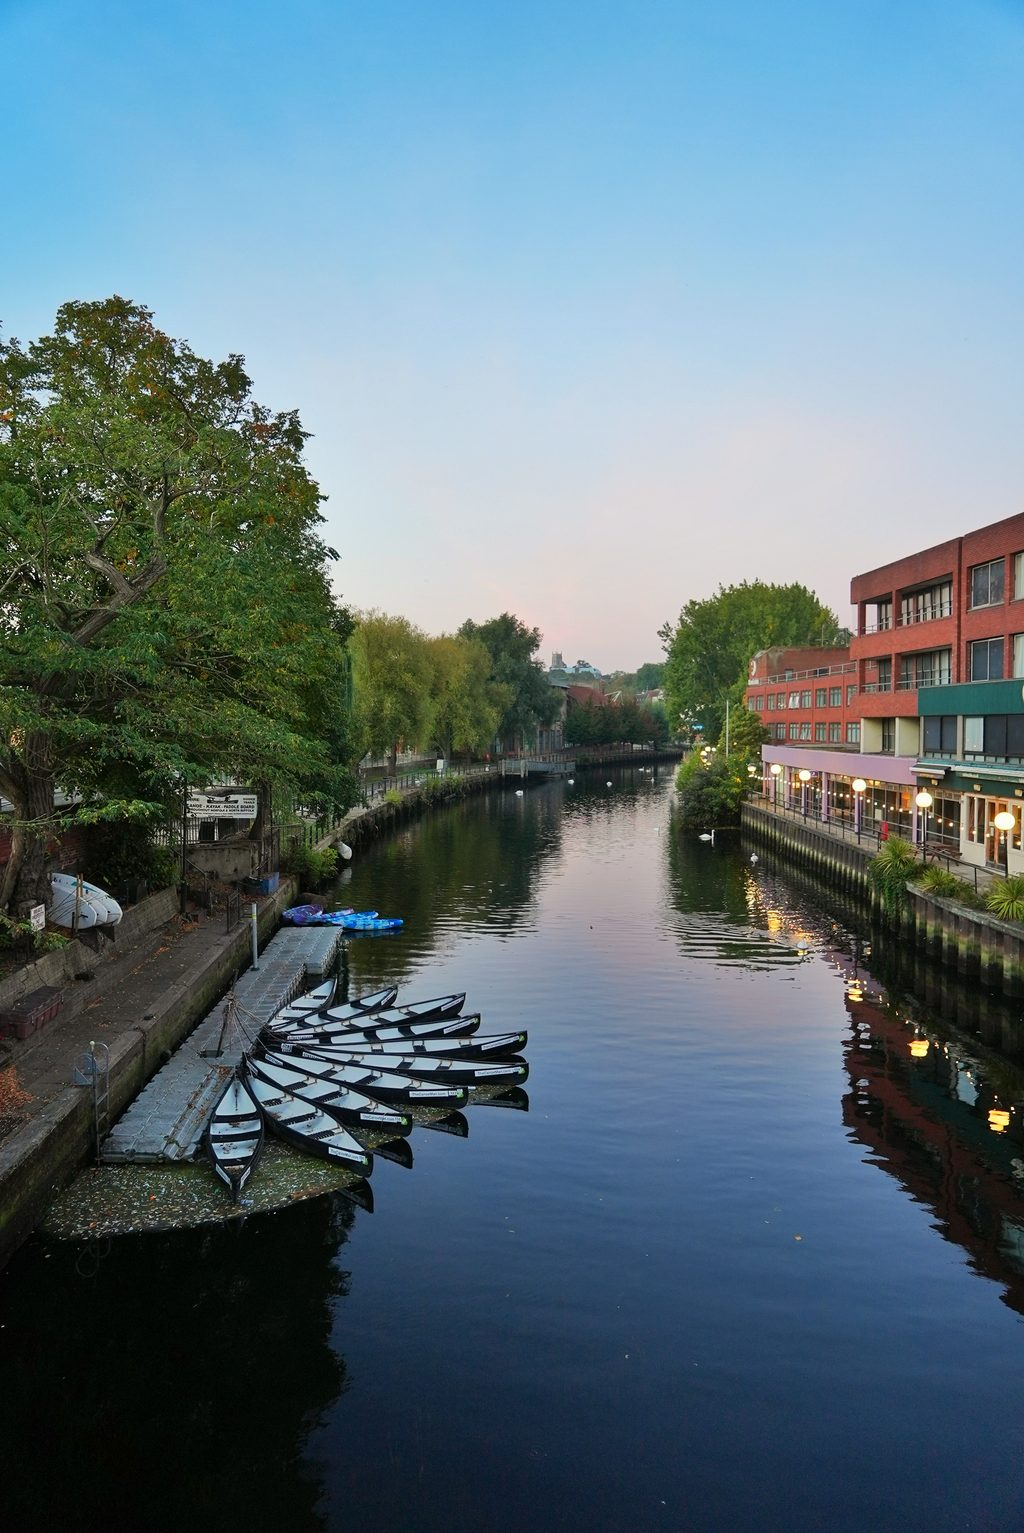
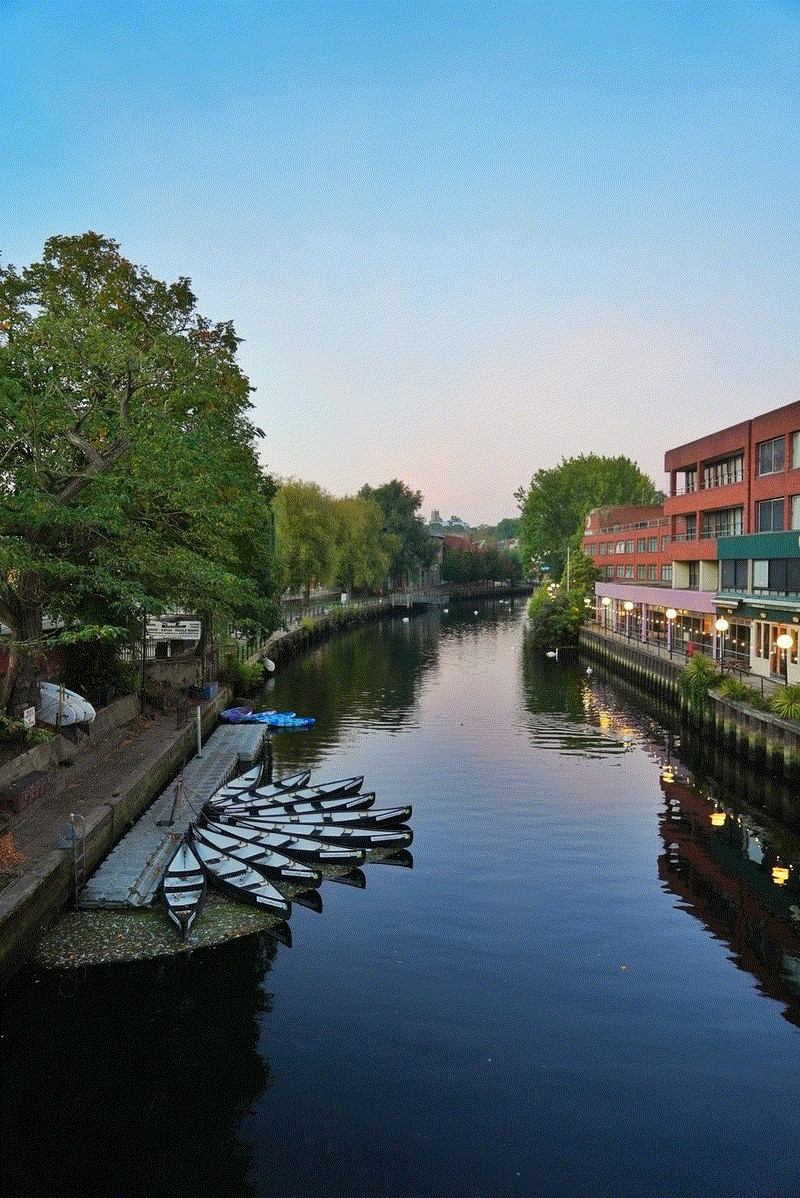
Replace all project images with authentic 8-bit color Floyd-Steinberg dithered versions

diff --git a/scripts/dither_all_images.js b/scripts/dither_all_images.js
@@ -1,0 +1,112 @@
+const sharp = require('sharp');
+const fs = require('fs');
+const path = require('path');
+
+function quantize8Bit(r, g, b) {
+  const rq = Math.round((r / 255) * 7) / 7 * 255;
+  const gq = Math.round((g / 255) * 7) / 7 * 255;
+  const bq = Math.round((b / 255) * 3) / 3 * 255;
+  return [
+    Math.min(255, Math.max(0, Math.round(rq))),
+    Math.min(255, Math.max(0, Math.round(gq))),
+    Math.min(255, Math.max(0, Math.round(bq)))
+  ];
+}
+
+async function ditherImage(filePath) {
+  console.log(`Processing 8-bit dither for: ${path.basename(filePath)}...`);
+  const image = sharp(filePath);
+  const metadata = await image.metadata();
+
+  const isPng = filePath.endsWith('.png');
+  const targetWidth = isPng ? metadata.width : 800; // photos resized to 800px width max for crisp 8bit stippling
+  const width = Math.min(targetWidth, metadata.width || targetWidth);
+
+  const resized = await image.resize({ width }).raw().toBuffer({ resolveWithObject: true });
+  const { data, info } = resized;
+  const w = info.width;
+  const h = info.height;
+  const channels = info.channels;
+
+  const buf = new Float32Array(w * h * 3);
+  for (let i = 0; i < w * h; i++) {
+    buf[i * 3] = data[i * channels];
+    buf[i * 3 + 1] = data[i * channels + 1];
+    buf[i * 3 + 2] = data[i * channels + 2];
+  }
+
+  const outputBuf = Buffer.alloc(w * h * channels);
+
+  for (let y = 0; y < h; y++) {
+    for (let x = 0; x < w; x++) {
+      const pIdx = y * w + x;
+      const idx3 = pIdx * 3;
+      const idxC = pIdx * channels;
+
+      const oldR = buf[idx3];
+      const oldG = buf[idx3 + 1];
+      const oldB = buf[idx3 + 2];
+
+      const [newR, newG, newB] = quantize8Bit(oldR, oldG, oldB);
+
+      outputBuf[idxC] = newR;
+      outputBuf[idxC + 1] = newG;
+      outputBuf[idxC + 2] = newB;
+
+      if (channels === 4) {
+        outputBuf[idxC + 3] = data[idxC + 3]; // preserve alpha
+      }
+
+      const errR = oldR - newR;
+      const errG = oldG - newG;
+      const errB = oldB - newB;
+
+      const distributeError = (nx, ny, weight) => {
+        if (nx >= 0 && nx < w && ny >= 0 && ny < h) {
+          const nIdx3 = (ny * w + nx) * 3;
+          buf[nIdx3] += errR * weight;
+          buf[nIdx3 + 1] += errG * weight;
+          buf[nIdx3 + 2] += errB * weight;
+        }
+      };
+
+      distributeError(x + 1, y, 7 / 16);
+      distributeError(x - 1, y + 1, 3 / 16);
+      distributeError(x, y + 1, 5 / 16);
+      distributeError(x + 1, y + 1, 1 / 16);
+    }
+  }
+
+  const tmpPath = filePath + '.tmp';
+
+  let pipeline = sharp(outputBuf, {
+    raw: {
+      width: w,
+      height: h,
+      channels
+    }
+  }).withMetadata();
+
+  if (isPng) {
+    await pipeline.png({ palette: true, colors: 256, dither: 1.0 }).toFile(tmpPath);
+  } else {
+    await pipeline.jpeg({ quality: 90, chromaSubsampling: '4:2:0' }).toFile(tmpPath);
+  }
+
+  fs.renameSync(tmpPath, filePath);
+  console.log(`Finished 8-bit dither for: ${path.basename(filePath)}`);
+}
+
+async function main() {
+  const imagesDir = path.join(__dirname, '..', 'src', 'assets', 'images');
+  const files = fs.readdirSync(imagesDir).filter(f => f.endsWith('.jpg') || f.endsWith('.png'));
+
+  for (const file of files) {
+    const filePath = path.join(imagesDir, file);
+    await ditherImage(filePath);
+  }
+
+  console.log('All images successfully converted to 8-bit dithered versions!');
+}
+
+main().catch(console.error);
